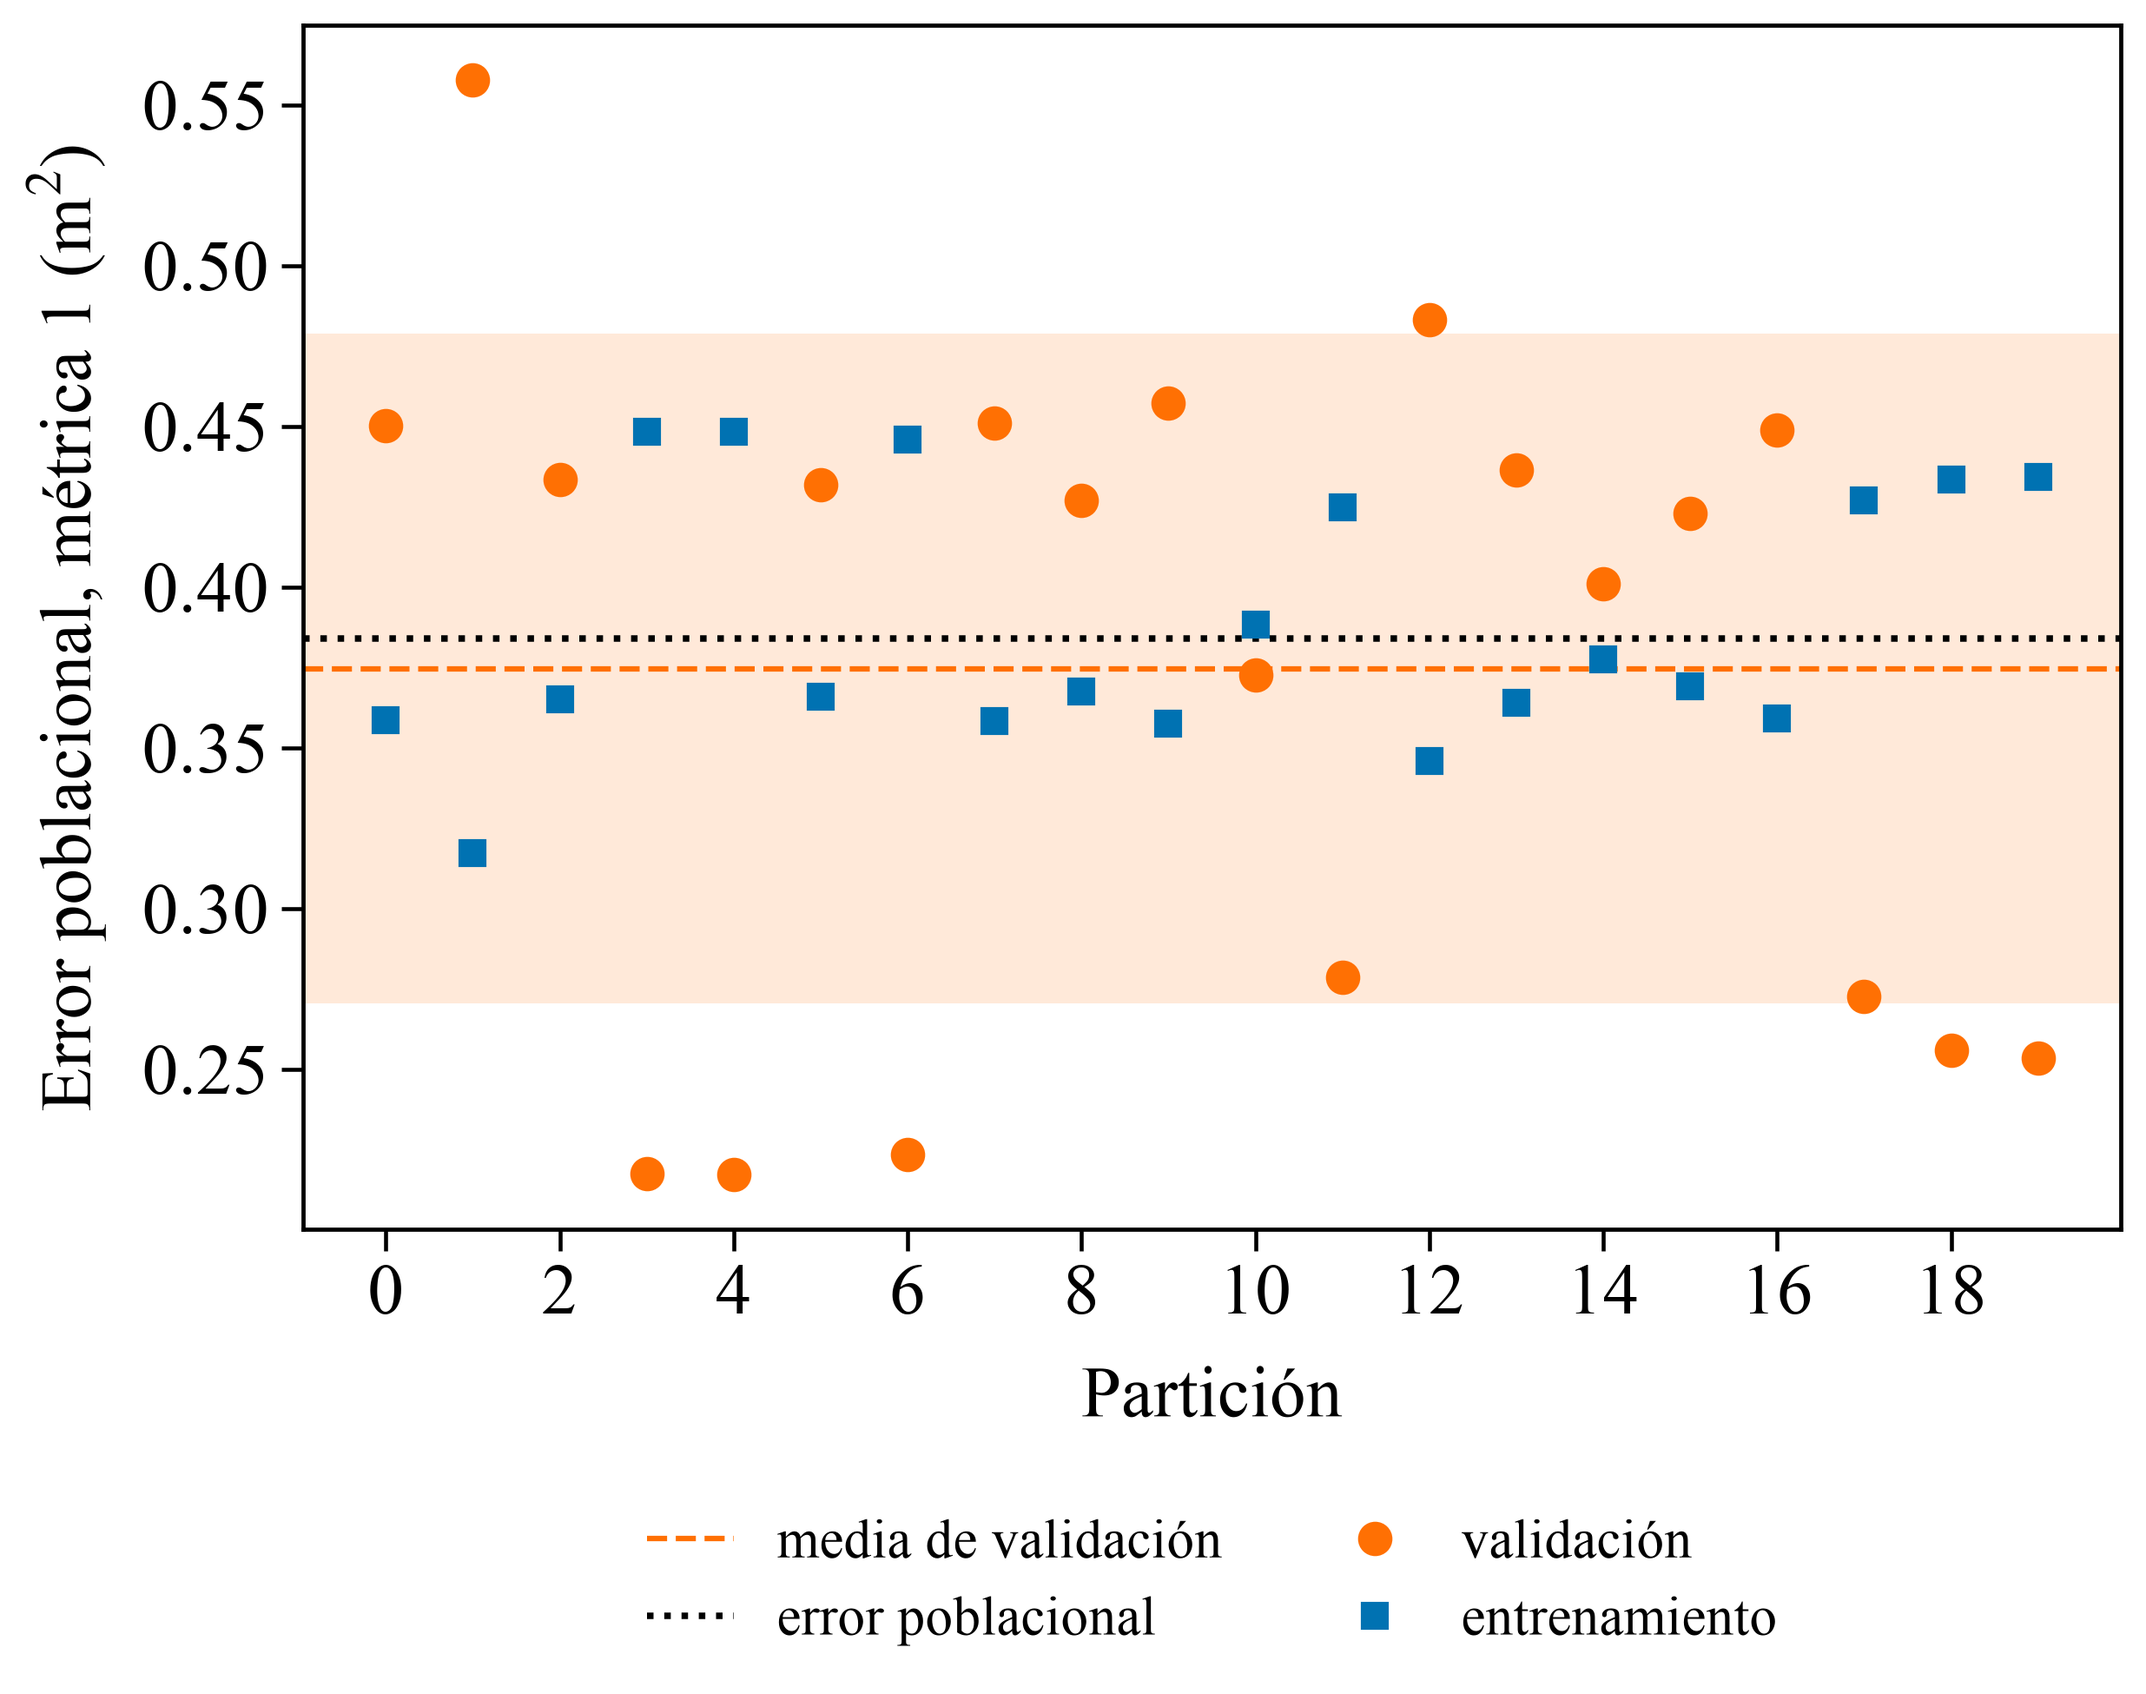
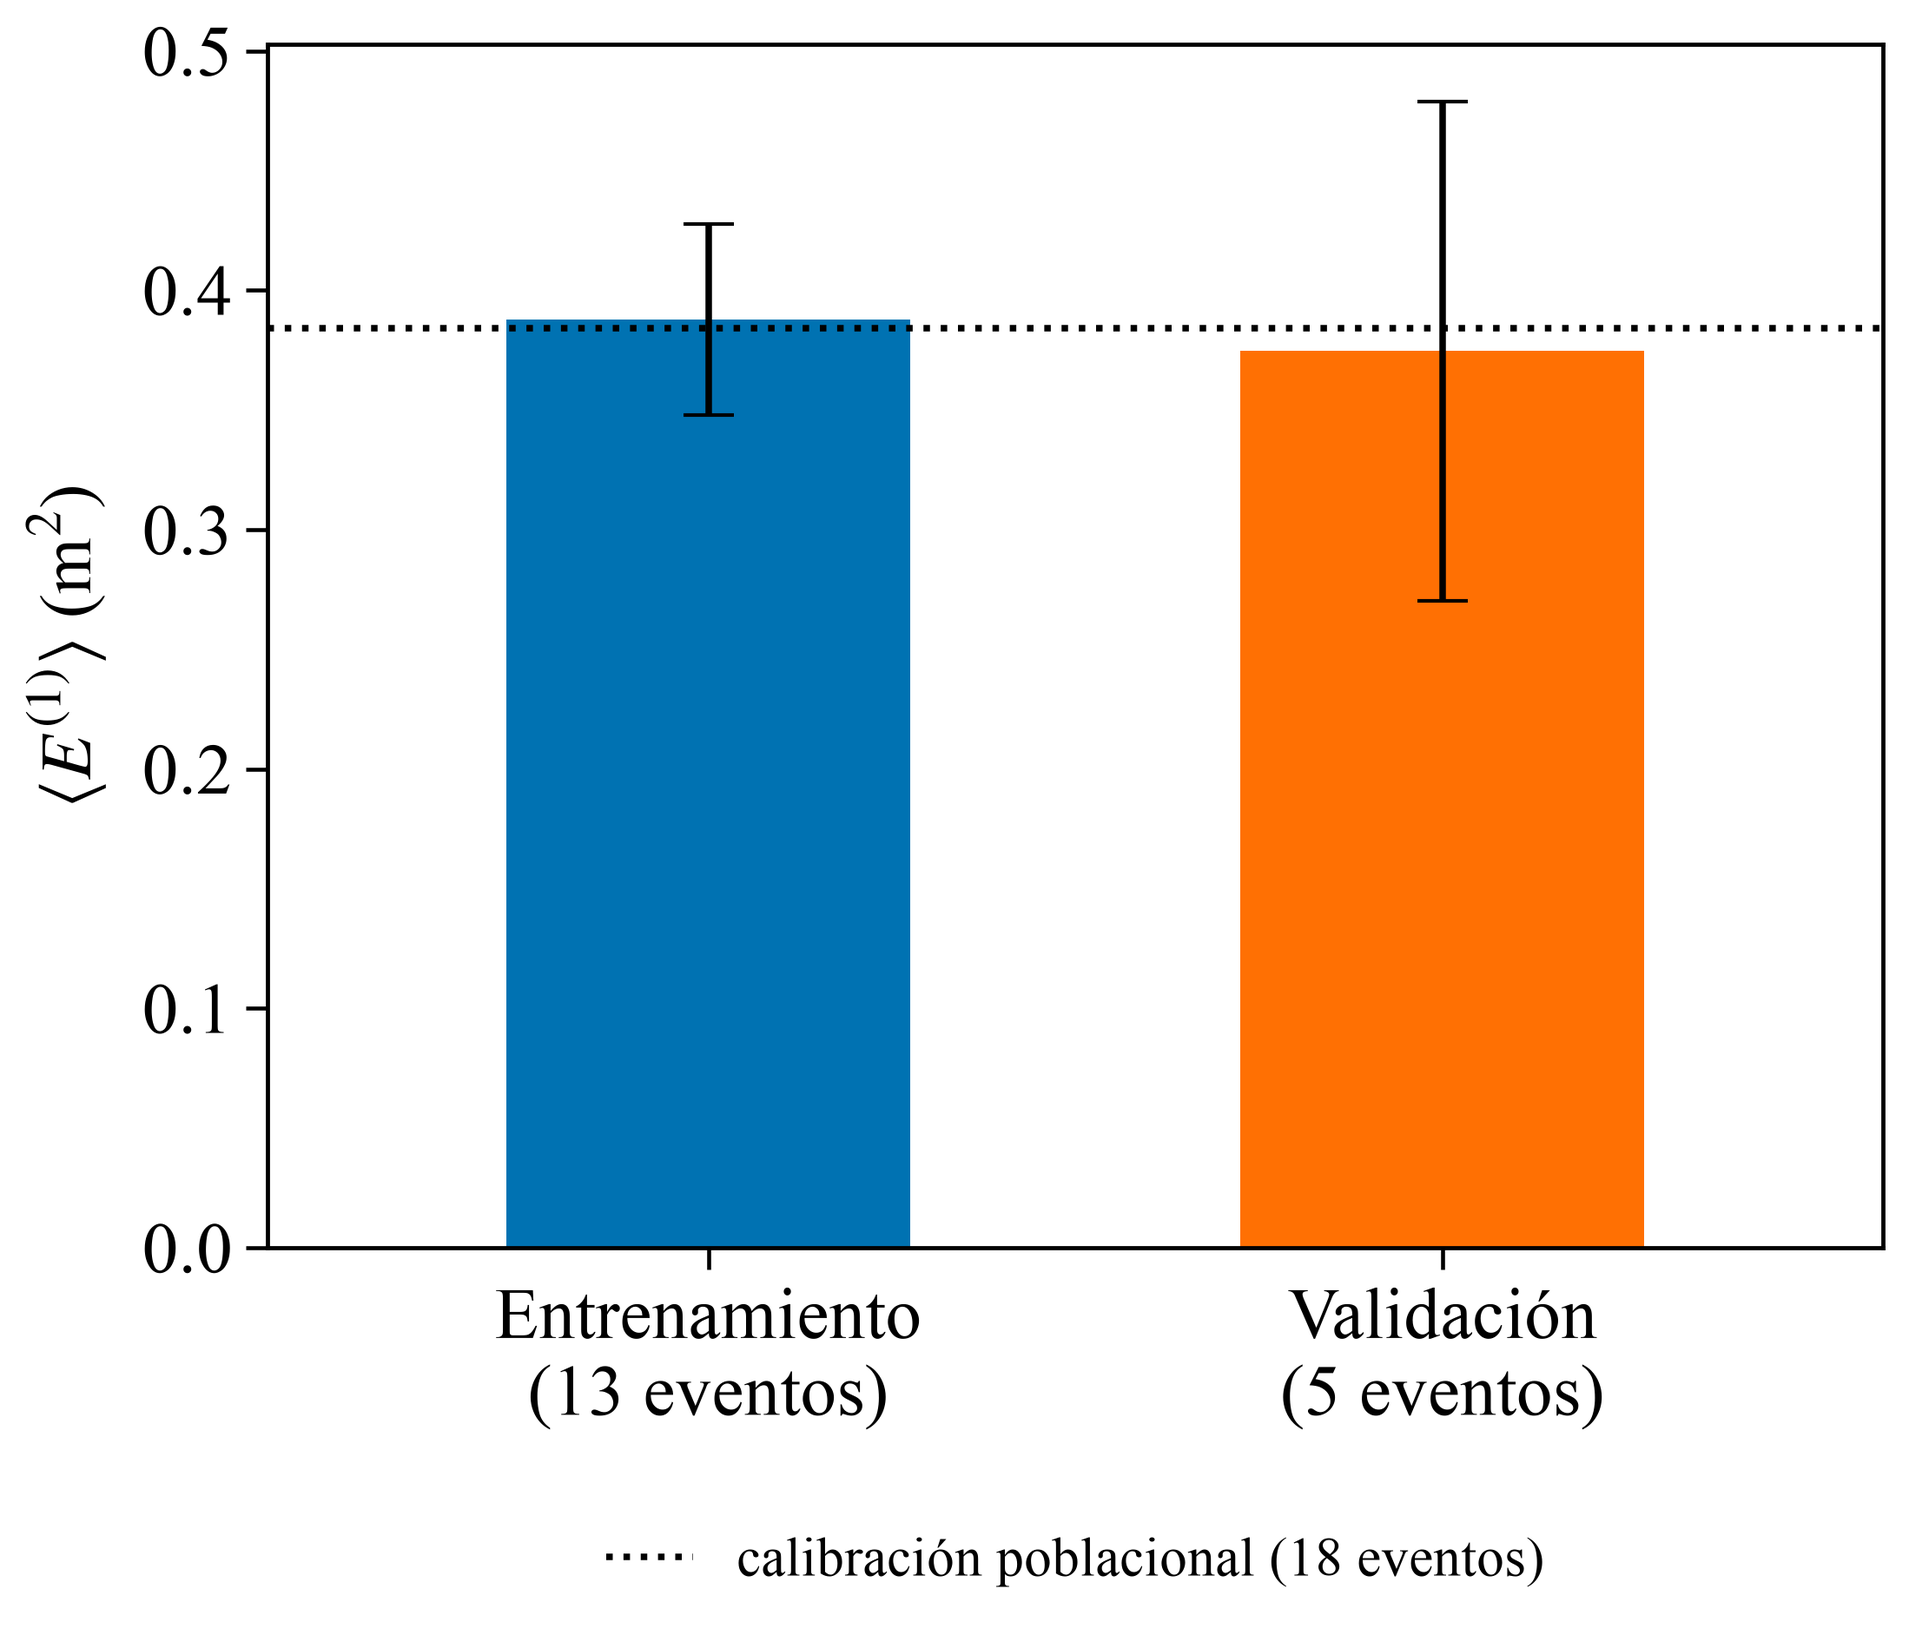
validacion cruzada

diff --git a/scripts/plot_calibration.py b/scripts/plot_calibration.py
@@ -178,14 +178,18 @@ def plot_crossval(metric: int, indir: Path, outdir: Path) -> None:
     E_tr = np.array([float(r[3]) for r in rows])
     E_va = np.array([float(r[4]) for r in rows])
 
-    fig, ax = plt.subplots(figsize=(9, 6))
-    ax.axhspan(val_mean - val_sd, val_mean + val_sd, color=VERMILLION, alpha=0.15, linewidth=0)
-    ax.axhline(val_mean, color=VERMILLION, linestyle="--", linewidth=1.5, label="media de validación")
-    ax.axhline(E_pop, color="black", linestyle=":", linewidth=1.8, label="error poblacional")
-    ax.plot(k, E_va, linestyle="none", marker="o", color=VERMILLION, label="validación")
-    ax.plot(k, E_tr, linestyle="none", marker="s", color=BLUE, markersize=6.5, label="entrenamiento")
-    ax.set_xticks(k[:: max(1, len(k) // 10)])
-    style_axes(ax, "Partición", elabel(metric))
+    # one bar per set: mean over the partitions, error bar = sample sd between partitions (said on the slide)
+    # (the partition index carries no information, so it is not an axis)
+    fig, ax = plt.subplots(figsize=(8, 6))
+    for x, vals, color in ((0, E_tr, BLUE), (1, E_va, VERMILLION)):
+        ax.bar(x, vals.mean(), 0.55, color=color)
+        ax.errorbar(x, vals.mean(), yerr=vals.std(ddof=1), color="black", capsize=7, linewidth=1.8, zorder=4)
+    ax.axhline(E_pop, color="black", linestyle=":", linewidth=1.8, label="calibración poblacional (18 eventos)")
+    ax.set_xticks([0, 1])
+    ax.set_xticklabels(["Entrenamiento\n(13 eventos)", "Validación\n(5 eventos)"])
+    ax.set_xlim(-0.6, 1.6)
+    ax.set_ylim(0, None)
+    style_axes(ax, "", rf"$\langle E^{{({metric})}}\rangle$ (m$^2$)")
     ax.legend(loc="upper center", bbox_to_anchor=(0.5, -0.2), fontsize=15, ncol=2, frameon=False)
     save(fig, outdir / f"E{metric}_validacion_cruzada.png")
 

diff --git a/docs/presentation/secciones/resultados.tex b/docs/presentation/secciones/resultados.tex
@@ -205,5 +205,17 @@
 \end{frame}
 
 \begin{frame}{Resultados}
-  \framesubtitle{Validación cruzada}
+  \framesubtitle{Validación cruzada: 20 particiones aleatorias (70\,\% / 30\,\%)}
+  \begin{columns}[T]
+    \begin{column}{0.49\textwidth}
+      \centering{\small Métrica 1}\par
+      \includegraphics[width=\linewidth,height=0.62\textheight,keepaspectratio]{E1_validacion_cruzada.png}
+    \end{column}
+    \begin{column}{0.49\textwidth}
+      \centering{\small Métrica 2}\par
+      \includegraphics[width=\linewidth,height=0.62\textheight,keepaspectratio]{E2_validacion_cruzada.png}
+    \end{column}
+  \end{columns}
+  \vspace{6pt}
+  \centering{\small Validación $\approx$ entrenamiento $\approx$ poblacional: sin sobreajuste}
 \end{frame}
